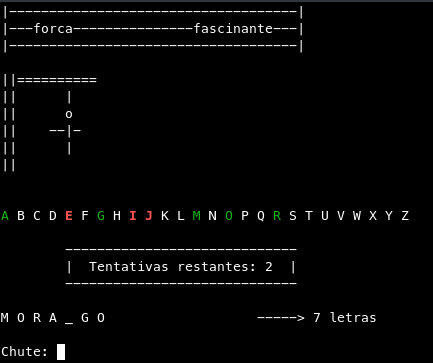
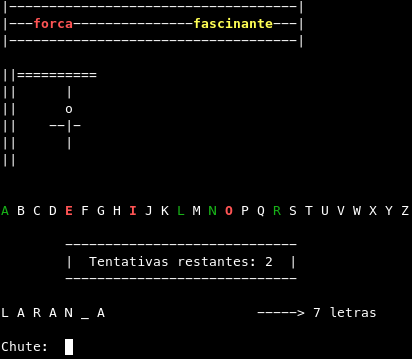
troquei cor do cabeçalho e atualizei imagem do repo

diff --git a/src/forca.c b/src/forca.c
@@ -131,6 +131,7 @@ int auth_chute(int *posicaoAcerto, char *palavraSecreta, char *linhas) {
 
   if (!((chute >= 65 && chute <= 90) || (chute >= 97 && chute <= 122)))
     return 1;
+    //nao fere o jogador mas fere o desempenho
 
   maiusculador(&chute);
 
@@ -271,8 +272,16 @@ int voltar_n(int qualArquivo) {
 
 void desenhar_cabecalho() {
   system("clear");
-  puts("|------------------------------------|");
-  puts("|---forca---------------fascinante---|");
+  printf("|------------------------------------|\n");
+  printf("|---");
+  trocar_cor(2);
+  printf("forca");
+  trocar_cor(0);
+  printf("---------------");
+  trocar_cor(3);
+  printf("fascinante");
+  trocar_cor(0);
+  puts("---|");
   puts("|------------------------------------|");
 }
 
